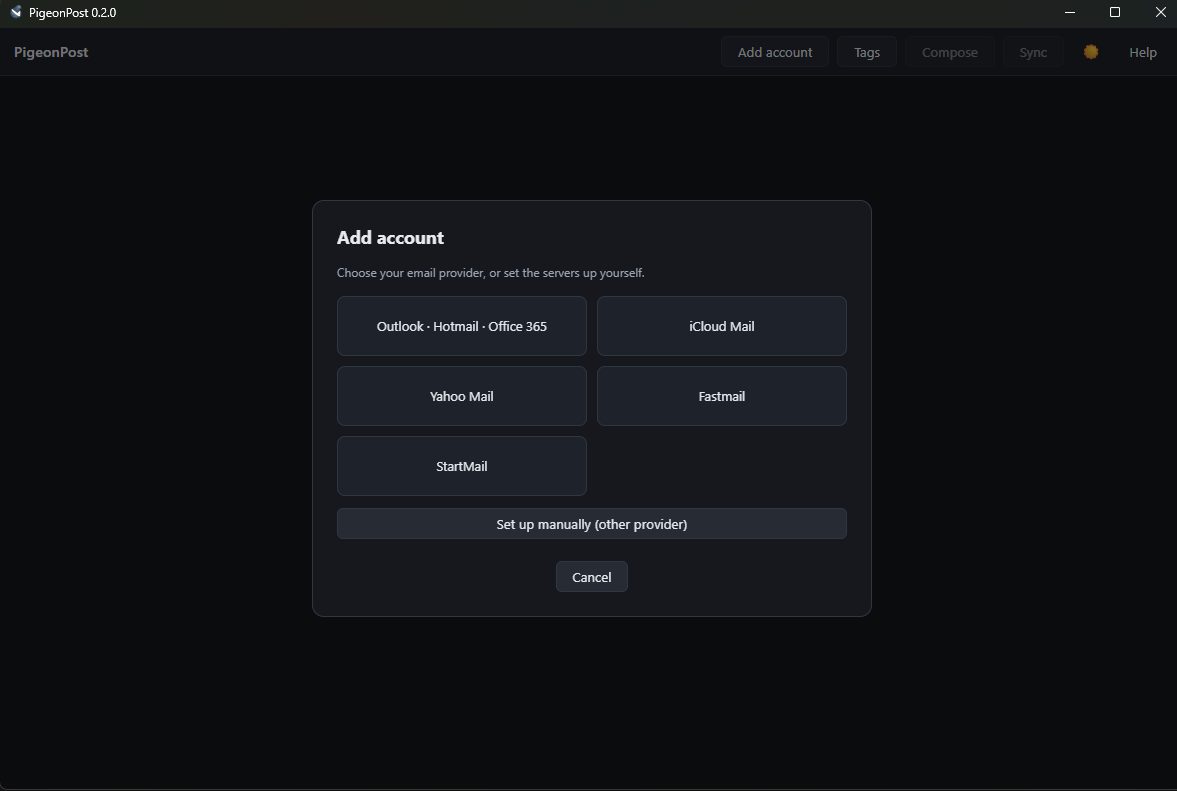
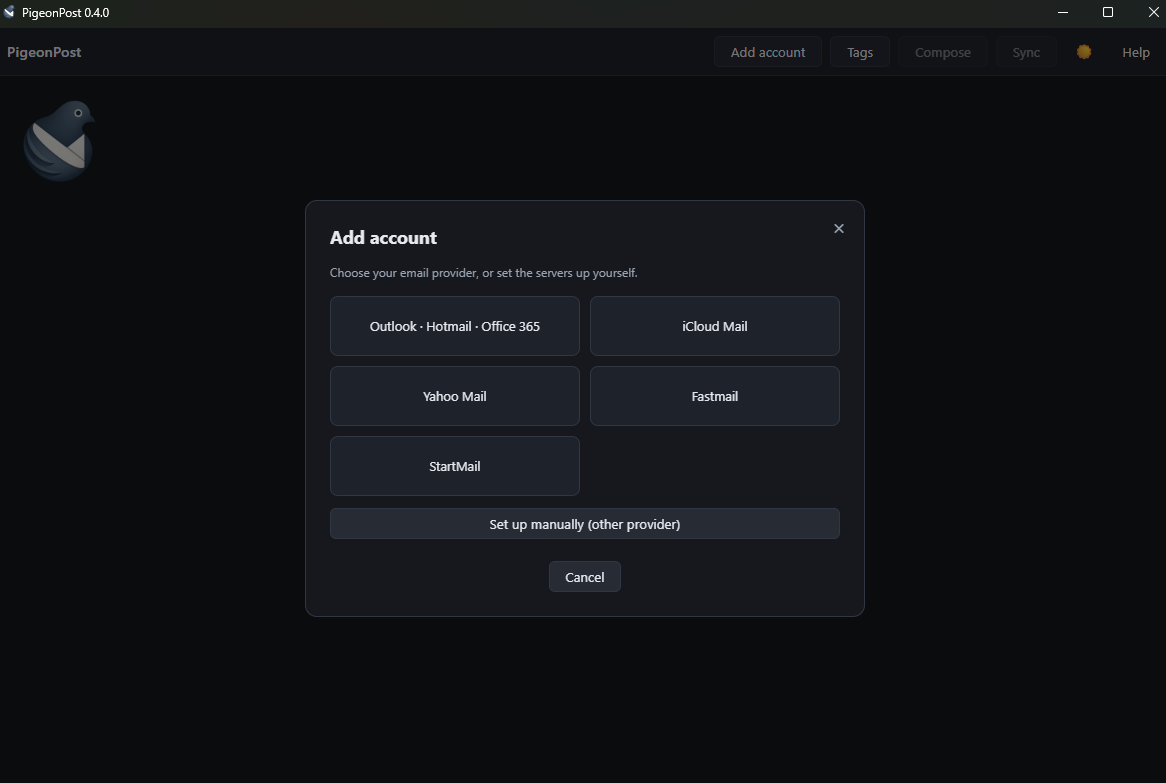
Minor gh pages mod

diff --git a/docs/index.html b/docs/index.html
@@ -266,7 +266,7 @@
 
     <section class="section" id="features">
         <h2>What it does</h2>
-        <p class="lead">The Thunderbird workflows that carry daily use, without the clutter.</p>
+        <p class="lead">The everyday email workflows that carry daily use, without the clutter.</p>
         <div class="grid">
             <div class="card">
                 <div class="ico">📥</div>
@@ -286,7 +286,7 @@
             <div class="card">
                 <div class="ico">📅</div>
                 <h3>Calendar with ICS</h3>
-                <p>Month, week and day views. Import and export .ics files to and from Outlook or Thunderbird.</p>
+                <p>Month, week and day views. Import and export standard .ics files that any calendar app can read.</p>
             </div>
             <div class="card">
                 <div class="ico">👥</div>